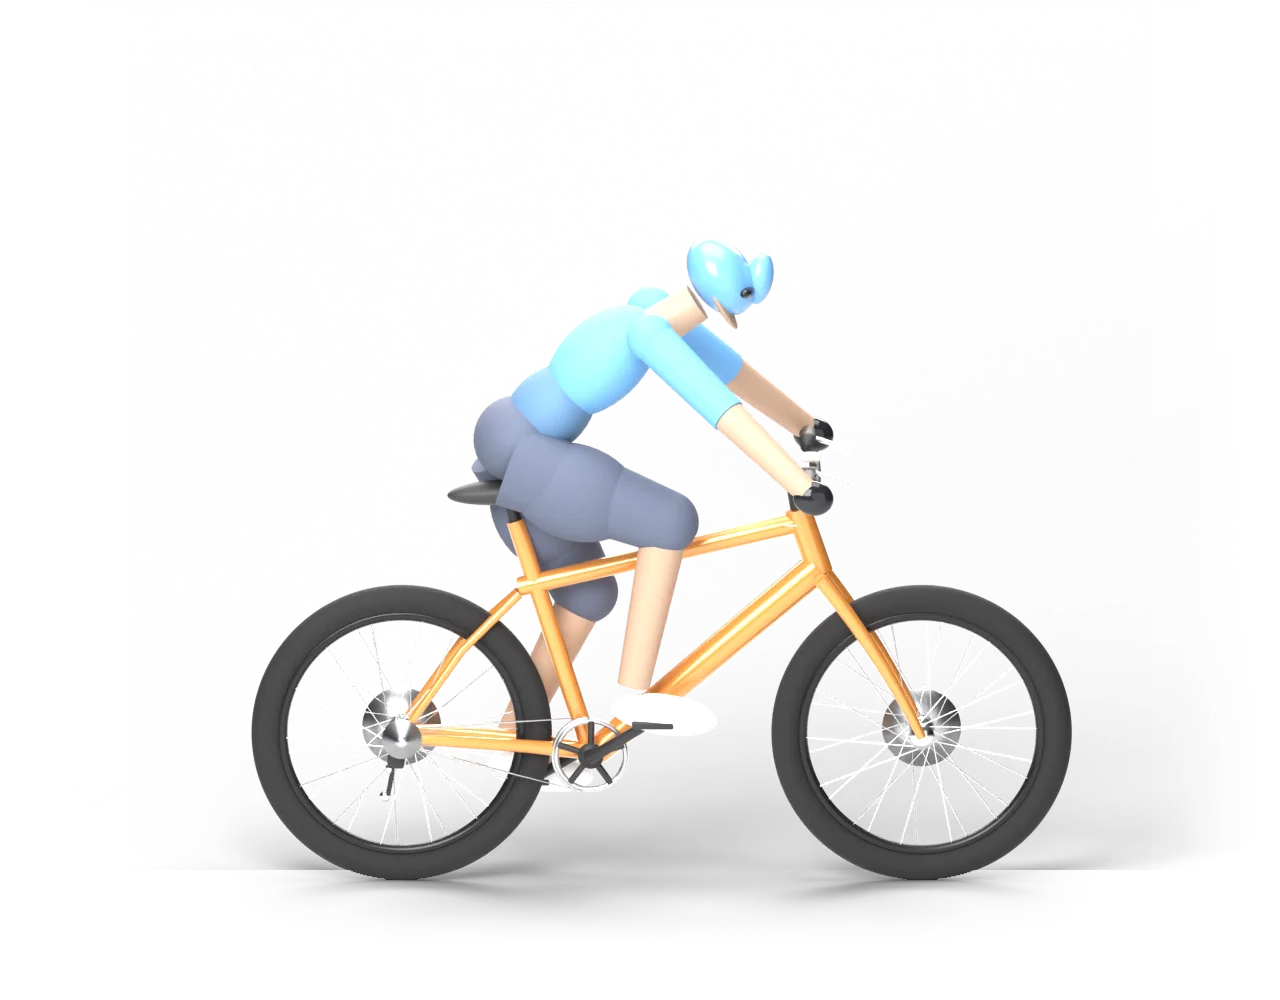
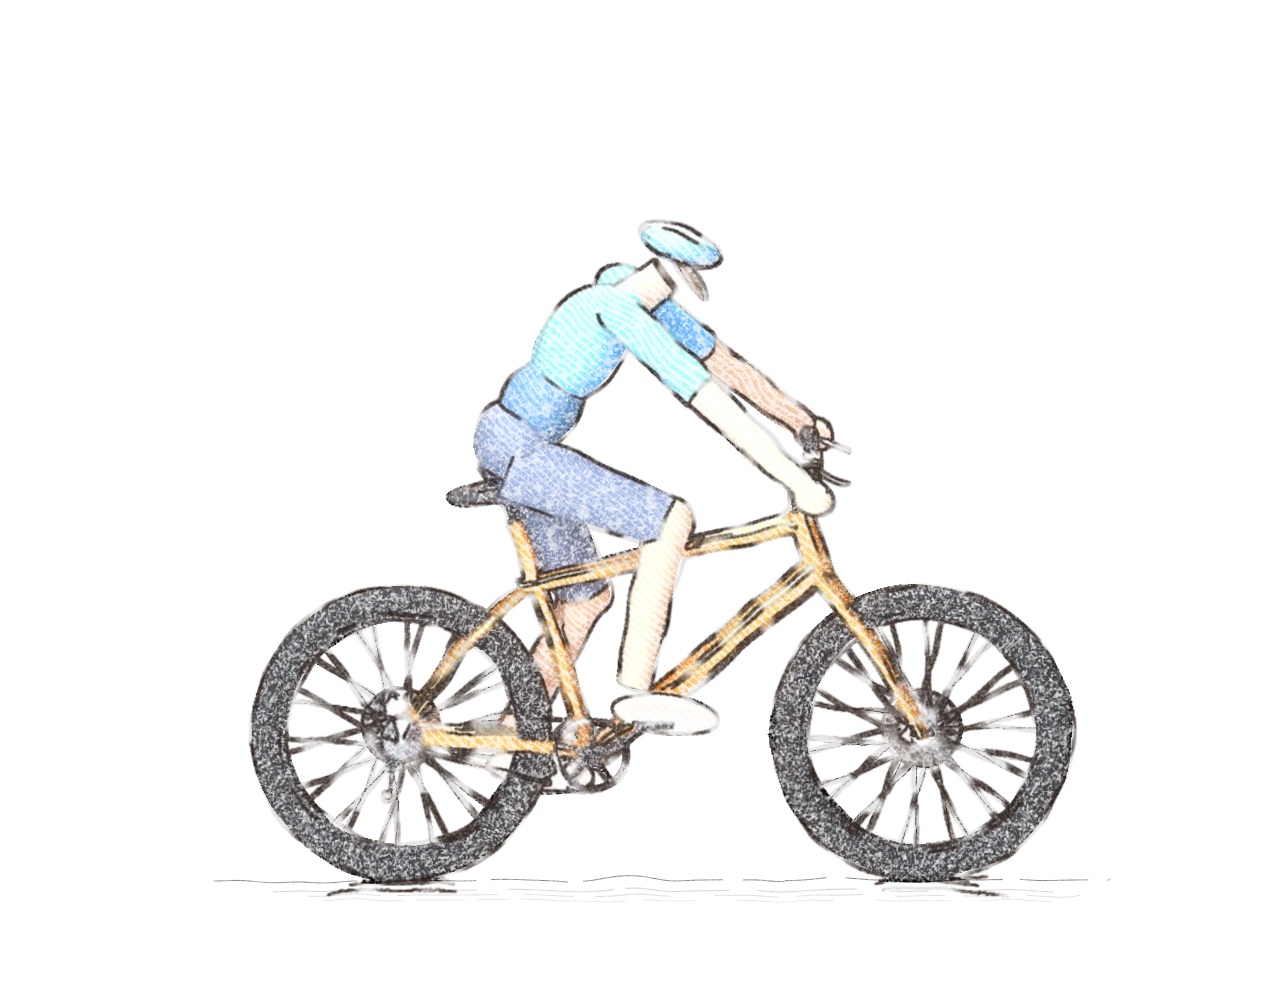
Draw the height-diagram rider as a coloured-pencil sketch instead of a 3D doll
The riders in the home page's "Drag to any height" diagram were plain 3D figures, and they read as
dolls: smooth plastic limbs, a stiff pose, a lumpy helmet. The ask was a coloured-pencil sketch of the
person. The whole picture, rider and bike together, is now drawn that way, because a realistic bike
next to a sketched rider looked like two different pictures.

art/paint/pencil.py makes the sketch from each render: colour as diagonal hatching in a pigment taken
from the render, denser in the darks, with a cross-hatch in the shadows and a paper grain so the page
shows between strokes; a wobbly graphite outline from the form's edges, broken up like a lifted pencil;
and the colour and line offset a hair apart by different smooth distortions, which is what makes it
look drawn rather than traced. The floor shadow, which came out as grey clouds, is replaced by a
hand-drawn ground line with a few light strokes. Output stays transparent so the page is the paper.

The figure itself also changed, since a sketch only hides so much: a new "casual" rider style with a
plain round helmet instead of the visored shell (which read as a heart-shaped head), bare hands, an
upright relaxed posture for the kids and a gentler lean for the adults. All eight sizes (100 to 192 cm)
were re-rendered. Rejected: sketching only the rider and leaving the studio-lit bike; keeping the doll
and only softening it with a filter.
[…]

Changed region(s): [[0.1875, 0.217, 0.9062, 0.93]]

diff --git a/index.html b/index.html
@@ -127,14 +127,14 @@
       <div class="fit-radar-diagram">
         <div class="fit-radar-scale-wrap" id="radarScaleWrap">
           <div class="radar-stage" id="radarStage" role="img" aria-label="A child about 125 cm tall riding a bike with 20 inch wheels">
-            <img class="radar-img" src="images/sizes/size_100.webp?v=2" width="1280" height="1000" loading="lazy" decoding="async" alt="">
-            <img class="radar-img" src="images/sizes/size_112.webp?v=2" width="1280" height="1000" loading="lazy" decoding="async" alt="">
-            <img class="radar-img is-on" src="images/sizes/size_125.webp?v=2" width="1280" height="1000"  decoding="async" alt="">
-            <img class="radar-img" src="images/sizes/size_140.webp?v=2" width="1280" height="1000" loading="lazy" decoding="async" alt="">
-            <img class="radar-img" src="images/sizes/size_152.webp?v=2" width="1280" height="1000" loading="lazy" decoding="async" alt="">
-            <img class="radar-img" src="images/sizes/size_165.webp?v=2" width="1280" height="1000" loading="lazy" decoding="async" alt="">
-            <img class="radar-img" src="images/sizes/size_178.webp?v=2" width="1280" height="1000" loading="lazy" decoding="async" alt="">
-            <img class="radar-img" src="images/sizes/size_192.webp?v=2" width="1280" height="1000" loading="lazy" decoding="async" alt="">
+            <img class="radar-img" src="images/sizes/size_100.webp?v=3" width="1280" height="1000" loading="lazy" decoding="async" alt="">
+            <img class="radar-img" src="images/sizes/size_112.webp?v=3" width="1280" height="1000" loading="lazy" decoding="async" alt="">
+            <img class="radar-img is-on" src="images/sizes/size_125.webp?v=3" width="1280" height="1000"  decoding="async" alt="">
+            <img class="radar-img" src="images/sizes/size_140.webp?v=3" width="1280" height="1000" loading="lazy" decoding="async" alt="">
+            <img class="radar-img" src="images/sizes/size_152.webp?v=3" width="1280" height="1000" loading="lazy" decoding="async" alt="">
+            <img class="radar-img" src="images/sizes/size_165.webp?v=3" width="1280" height="1000" loading="lazy" decoding="async" alt="">
+            <img class="radar-img" src="images/sizes/size_178.webp?v=3" width="1280" height="1000" loading="lazy" decoding="async" alt="">
+            <img class="radar-img" src="images/sizes/size_192.webp?v=3" width="1280" height="1000" loading="lazy" decoding="async" alt="">
             <svg class="radar-ruler" viewBox="0 0 640 500" aria-hidden="true">
               <line class="dim-ext" x1="24" y1="440" x2="616" y2="440"/>
               <g id="radarRuler">

diff --git a/art/paint/pencil.py b/art/paint/pencil.py
@@ -1,0 +1,152 @@
+"""Turn a studio render (RGBA, transparent background) into a coloured-pencil sketch.
+
+    python pencil.py <in-dir> <out-dir>        every size_*.png with a .json beside it
+
+A coloured pencil drawing is made of three things, and this lays them down the way a hand does:
+  1. colour: soft diagonal hatching in a pigment taken from the render, denser where the form is darker,
+     with a second cross-hatch in the shadows, on a paper grain, so the page shows between the strokes;
+  2. line: a wobbly graphite outline from the edges of the form, broken up like a lifted pencil;
+  3. offset: the colour and the line are shifted a hair apart by different smooth distortions, which is
+     what makes a sketch look drawn rather than traced.
+Output keeps the transparent background, so the paper of the page is the paper of the drawing.
+"""
+import glob
+import math
+import os
+import sys
+
+if os.environ.get('PYLIBS'):
+    sys.path.insert(0, os.environ['PYLIBS'])
+
+import cv2
+import numpy as np
+
+
+def smooth_noise(h, w, cell, rng, amp):
+    lo = rng.standard_normal((h // cell + 3, w // cell + 3)).astype(np.float32)
+    return cv2.resize(lo, (w, h), interpolation=cv2.INTER_CUBIC) * amp
+
+
+def warp(img, rng, amp, cell):
+    h, w = img.shape[:2]
+    dx, dy = smooth_noise(h, w, cell, rng, amp), smooth_noise(h, w, cell, rng, amp)
+    y, x = np.mgrid[0:h, 0:w].astype(np.float32)
+    return cv2.remap(img, x + dx, y + dy, cv2.INTER_LINEAR, borderMode=cv2.BORDER_CONSTANT, borderValue=0)
+
+
+def seed_phase(rng):
+    return float(rng.random() * 100)
+
+
+def hatch(h, w, angle_deg, pitch, density, rng, wobble):
+    """Soft parallel pencil lines; `density` (0..1 per pixel) is the fraction of each pitch that is covered."""
+    y, x = np.mgrid[0:h, 0:w].astype(np.float32)
+    a = math.radians(angle_deg)
+    u = (x * math.cos(a) + y * math.sin(a)) + smooth_noise(h, w, 38, rng, wobble)
+    v = (x * -math.sin(a) + y * math.cos(a))
+    # each stroke starts and stops at its own place along the line (a hand lifts the pencil)
+    line_id = np.floor(u / pitch)
+    rnd = np.sin(line_id * 12.9898 + seed_phase(rng)) * 43758.5453
+    start = (rnd - np.floor(rnd))
+    v = (x * -math.sin(a) + y * math.cos(a))
+    along = (v / (26.0 + 60.0 * start) + start * 7.0) % 1.0
+    gap = np.clip((along - 0.04) * 22.0, 0, 1) * np.clip((0.96 - along) * 22.0, 0, 1)
+    phase = (u / pitch) % 1.0
+    width = np.clip(density, 0, 1) * 0.95
+    line = np.clip((width * 1.05 - np.abs(phase - 0.5) * 2 * 0.5) * 6.0, 0, 1)
+    return line * (0.35 + 0.65 * gap)
+
+
+def pencil(src, dst, seed=3):
+    rng = np.random.default_rng(seed)
+    im = cv2.imread(src, cv2.IMREAD_UNCHANGED).astype(np.float32) / 255.0
+    h, w = im.shape[:2]
+    rgb, a = im[..., :3], im[..., 3]
+    solid = (a > 0.6).astype(np.float32)
+    shadow = np.clip(a - solid * a, 0, 1)                                 # the soft floor shadow
+    k = w / 1280.0
+
+    # ---- colour: flatten the render, lift it toward pigment
+    flat = cv2.bilateralFilter(rgb, 0, 0.10, 5 * k)
+    flat = cv2.GaussianBlur(flat, (0, 0), 1.2 * k)
+    hsv = cv2.cvtColor(flat, cv2.COLOR_BGR2HSV)
+    hsv[..., 1] = np.clip(hsv[..., 1] * 1.10 + 0.04, 0, 1)
+    pig = cv2.cvtColor(hsv, cv2.COLOR_HSV2BGR)
+    lum = pig @ np.array([0.114, 0.587, 0.299], np.float32)
+    dark = np.clip(1 - lum, 0, 1)
+    dens = np.clip(0.30 + 0.80 * dark, 0, 0.98)
+    pitch = 6.4 * k
+    h1 = hatch(h, w, -48, pitch, dens, rng, 2.2 * k)
+    h2 = hatch(h, w, 38, pitch * 1.15, np.clip((0.55 - lum) * 1.6, 0, 1), rng, 2.4 * k)   # cross-hatch only in the shadows
+    grain = cv2.GaussianBlur(rng.random((h, w)).astype(np.float32), (0, 0), 0.7)
+    grain = np.clip((grain - 0.5) * 2.4 + 0.62, 0, 1)                      # the tooth of the paper, in the pencil
+    cov = np.clip(h1 + h2 * 0.85, 0, 1) * grain * (solid > 0)
+    cov = np.clip(cov * 0.95 + solid * 0.16, 0, 1) * solid                # a little even tone under the hatching
+    cov = warp(cov, rng, 1.6 * k, 40)
+    col_rgb = warp(pig, rng, 1.6 * k, 40)
+    col_a = np.clip(cov, 0, 1)
+
+    # ---- line: graphite edges of the form
+    comp = rgb * a[..., None] + (1 - a[..., None])
+    g8 = cv2.cvtColor(np.clip(comp * 255, 0, 255).astype(np.uint8), cv2.COLOR_BGR2GRAY)
+    g8 = cv2.GaussianBlur(g8, (0, 0), 1.0 * k)
+    e_inner = cv2.Canny(g8, 38, 100).astype(np.float32) / 255.0
+    sa = (solid * 255).astype(np.uint8)
+    e_outer = cv2.Canny(cv2.GaussianBlur(sa, (0, 0), 1.0), 60, 140).astype(np.float32) / 255.0
+    edges = np.maximum(e_inner * 0.8, e_outer)
+    ink = cv2.dilate(edges, np.ones((2, 2), np.uint8)) if k < 1.4 else cv2.dilate(edges, np.ones((3, 3), np.uint8))
+    ink = cv2.GaussianBlur(ink, (0, 0), 0.8 * k)
+    ink = np.clip(ink * 2.2, 0, 1)
+    lift = np.clip(0.55 + smooth_noise(h, w, 18, rng, 0.9), 0.15, 1)       # the pencil lifts and presses
+    ink = warp(ink * lift * (0.65 + 0.35 * grain), rng, 1.3 * k, 30)
+    line_rgb = np.empty_like(rgb)
+    line_rgb[:] = (0.13, 0.15, 0.20)                                       # warm graphite (BGR)
+    line_a = np.clip(ink * 0.92, 0, 1)
+
+    # ---- ground: a hand-drawn line under the wheels, with a few light strokes beneath it
+    import json
+    meta = json.load(open(src + '.json'))
+    vb = w / 640.0                                                         # the json is in the page diagram's 640-wide units
+    gy = int(meta['ground_y'] * vb)
+    x0 = int((meta['points']['rear'][0] - meta['wheel_r_px'] * 1.25) * vb)
+    x1 = int((meta['points']['front'][0] + meta['wheel_r_px'] * 1.25) * vb)
+    ground = np.zeros((h, w), np.float32)
+    xs = x0
+    while xs < x1:
+        ln = int(rng.uniform(40, 150) * k)
+        yy = gy + int(rng.normal(0, 1.2) * k)
+        cv2.line(ground, (xs, yy), (min(x1, xs + ln), yy + int(rng.normal(0, 1.0))), 1.0, max(1, int(1.6 * k)), cv2.LINE_AA)
+        xs += ln + int(rng.uniform(4, 26) * k)
+    for j in range(1, 4):                                                   # soft shading strokes below
+        xs = x0 + int(rng.uniform(0, 60) * k) + j * 20
+        while xs < x1 - 30 * k:
+            ln = int(rng.uniform(30, 110) * k)
+            yy = gy + int((5 + j * 5) * k)
+            cv2.line(ground, (xs, yy), (xs + ln, yy), 0.45 - j * 0.08, max(1, int(1.2 * k)), cv2.LINE_AA)
+            xs += ln + int(rng.uniform(10, 46) * k)
+    sh_a = np.clip(warp(ground, rng, 1.0 * k, 30) * (0.55 + 0.45 * grain), 0, 1) * 0.75
+    sh_rgb = np.empty_like(rgb)
+    sh_rgb[:] = (0.30, 0.32, 0.38)
+
+    # ---- layer: shadow, then colour, then line on top
+    out_a = sh_a
+    out_c = sh_rgb * sh_a[..., None]
+    for c_rgb, c_a in ((col_rgb, col_a), (line_rgb, line_a)):
+        out_c = c_rgb * c_a[..., None] + out_c * (1 - c_a[..., None])
+        out_a = c_a + out_a * (1 - c_a)
+    safe = np.maximum(out_a, 1e-4)[..., None]
+    out_rgb = np.where(out_a[..., None] > 1e-3, out_c / safe, 0)
+    res = np.dstack([np.clip(out_rgb, 0, 1), np.clip(out_a, 0, 1)])
+    cv2.imwrite(dst, (res * 255).astype(np.uint8))
+
+
+if __name__ == '__main__':
+    src_dir, dst_dir = sys.argv[1], sys.argv[2]
+    os.makedirs(dst_dir, exist_ok=True)
+    only = sys.argv[3:]                                                    # optional heights, for a quick test
+    for p in sorted(glob.glob(os.path.join(src_dir, 'size_*.png'))):
+        name = os.path.basename(p)
+        if only and not any(name == 'size_%s.png' % o for o in only):
+            continue
+        pencil(p, os.path.join(dst_dir, name), seed=int(name.split('_')[1].split('.')[0]))
+        print('sketched', name)

diff --git a/art/blender/rider.py b/art/blender/rider.py
@@ -57,6 +57,8 @@ def _ball(name, p, r, mat):
 
 
 STYLES = {
+    # casual: an everyday ride, upright and relaxed, a plain round helmet, bare hands
+    'casual': dict(helmet='round', baggy=False, glasses=False, torso_lean=math.radians(58), grip='bars', leg_w=1.05, gloves=False),
     # racing: tight lycra, aero helmet, thin glasses, shoes with a stiff sole
     'road': dict(helmet='aero', baggy=False, glasses=True, torso_lean=math.radians(38), grip='hoods', leg_w=1.0),
     # mountain: loose shorts, half-shell helmet and goggles, upright attack position
@@ -114,7 +116,9 @@ def build(key, style='road', jersey=(0.9, 0.2, 0.1), shorts=(0.02, 0.02, 0.025),
     _limb(name + 'neck', neck_base - V((0.01, 0, 0.03)), head_c - head_dir * 0.03, 0.056 * sx, 0.050 * sx, M['skin'])
     # --- head, helmet, glasses
     _blob(name + 'head', head_c - V((0.0, 0, 0.0)), head_c + V((0.02, 0, 0.012)), 0.075 * sx * hs, 0.093 * sx * hs, M['skin'])
-    if st['helmet'] == 'aero':
+    if st['helmet'] == 'round':
+        _blob(name + 'helmet', head_c + V((-0.012, 0, 0.020)), head_c + V((0.015, 0, 0.085)), 0.090 * sx * hs, 0.100 * sx * hs, M['helmet'])
+    elif st['helmet'] == 'aero':
         _blob(name + 'helmet', head_c + V((-0.07, 0, 0.012)), head_c + V((0.07, 0, 0.060)), 0.088 * sx * hs, 0.098 * sx * hs, M['helmet'])
         _blob(name + 'helmet_tail', head_c + V((-0.16, 0, 0.0)), head_c + V((-0.03, 0, 0.03)), 0.050 * sx * hs, 0.065 * sx * hs, M['helmet'])
     else:
@@ -152,6 +156,6 @@ def build(key, style='road', jersey=(0.9, 0.2, 0.1), shorts=(0.02, 0.02, 0.025),
         _ball('%sshoulder%d' % (name, side), shj, 0.062 * sx, sleeve)
         _limb('%suarm%d' % (name, side), shj, elbow, 0.058 * sx, 0.048 * sx, sleeve)
         _limb('%sfarm%d' % (name, side), elbow, hand, 0.044 * sx, 0.032 * sx, M['skin'])
-        _blob('%shand%d' % (name, side), hand + V((-0.03, 0, 0.0)), hand + V((0.05, 0, -0.02)), 0.034 * sx, 0.045 * sx, M['glass'])   # gloves
+        _blob('%shand%d' % (name, side), hand + V((-0.03, 0, 0.0)), hand + V((0.05, 0, -0.02)), 0.034 * sx, 0.045 * sx, M['glass'] if st.get('gloves', True) else M['skin'])   # gloves
 
     return [o for o in bpy.data.objects if o not in before]

diff --git a/art/blender/render_sizes.py b/art/blender/render_sizes.py
@@ -52,8 +52,8 @@ def one(h, kind, geo, R, wheel_lbl, jersey, frame, helmet):
     saddle_z = (0.292 * geo if kind == 'gravel' else bikes.SPECS['kids']['bb'] * geo) + 0.4027 * h / 100.0   # bottom bracket + 0.885 x inseam
     crank = max(0.100, min(0.175, 0.175 * (h / 178.0) ** 0.7))
     key = bikes.build(kind, frame=frame, accent=(0.95, 0.9, 0.82), pedal_angle=0.55, geo=geo, R=R, saddle_z=saddle_z, crank=crank, extras=(kind != 'gravel'))
-    rider.build(key, style='mtb', jersey=jersey, shorts=(0.10, 0.12, 0.18), helmet_col=helmet, skin=(0.50, 0.33, 0.23), pose='seated',
-                lean_deg=44, scale=s, head_scale=1.0 + 0.55 * (1 - s), name='kid_')
+    rider.build(key, style='casual', jersey=jersey, shorts=(0.16, 0.20, 0.30), helmet_col=helmet, skin=(0.62, 0.43, 0.32), pose='seated',
+                lean_deg=(56 if h <= 152 else 48 - (h - 165) * 0.2), scale=s, head_scale=1.0 + 0.55 * (1 - s), name='kid_')
     bl.studio_ground()
     w = bpy.data.worlds.new('studio')
     w.use_nodes = True
